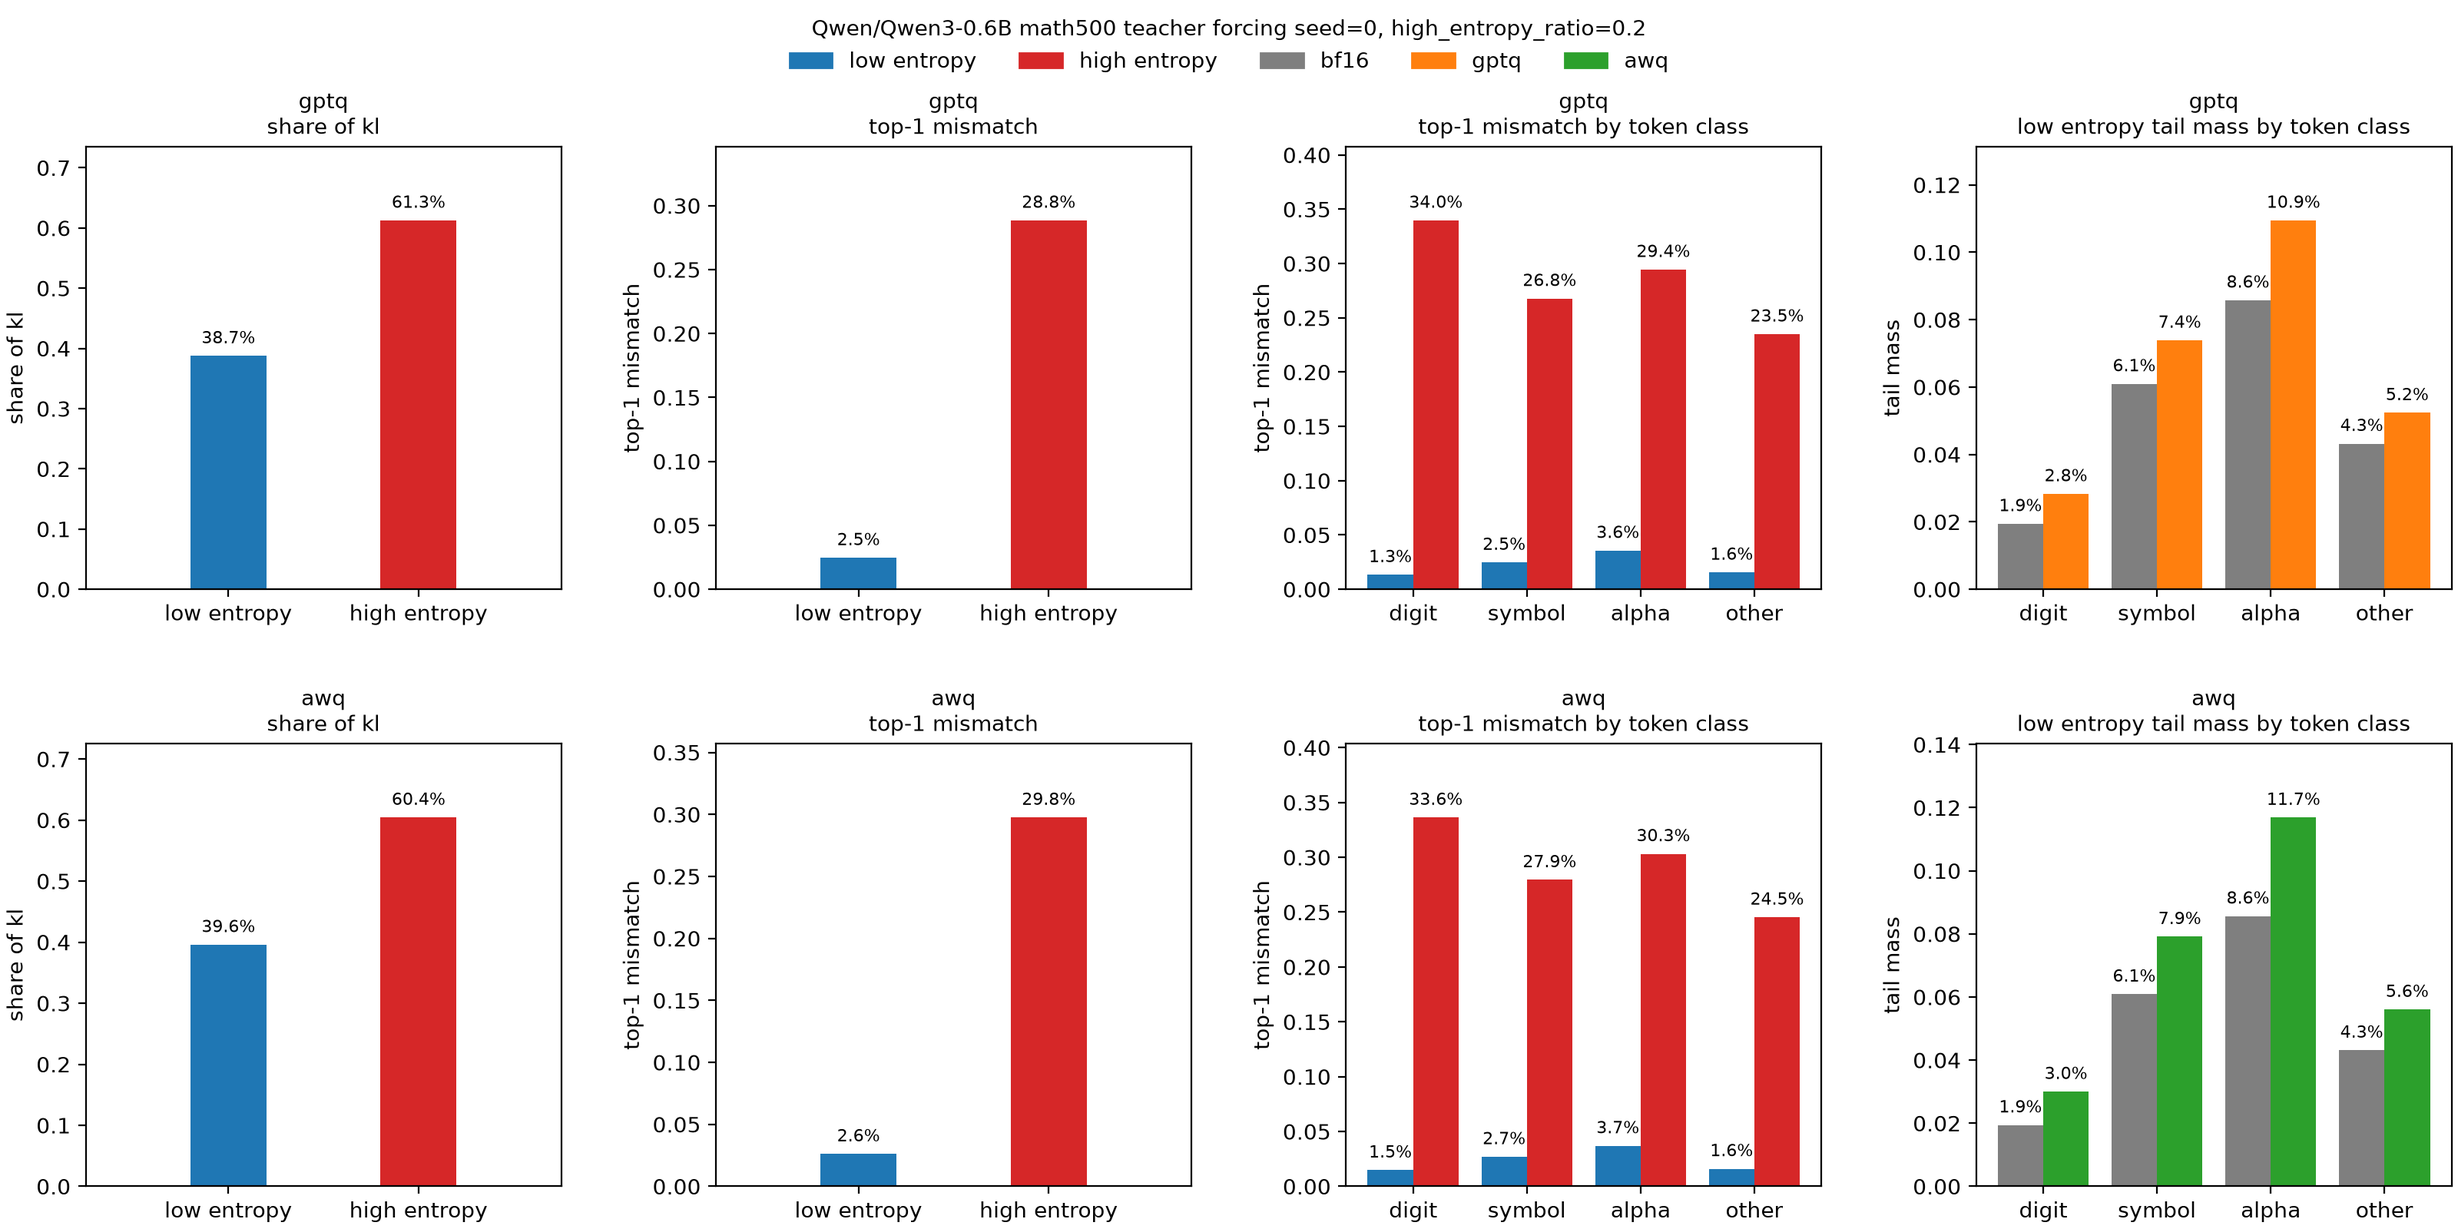
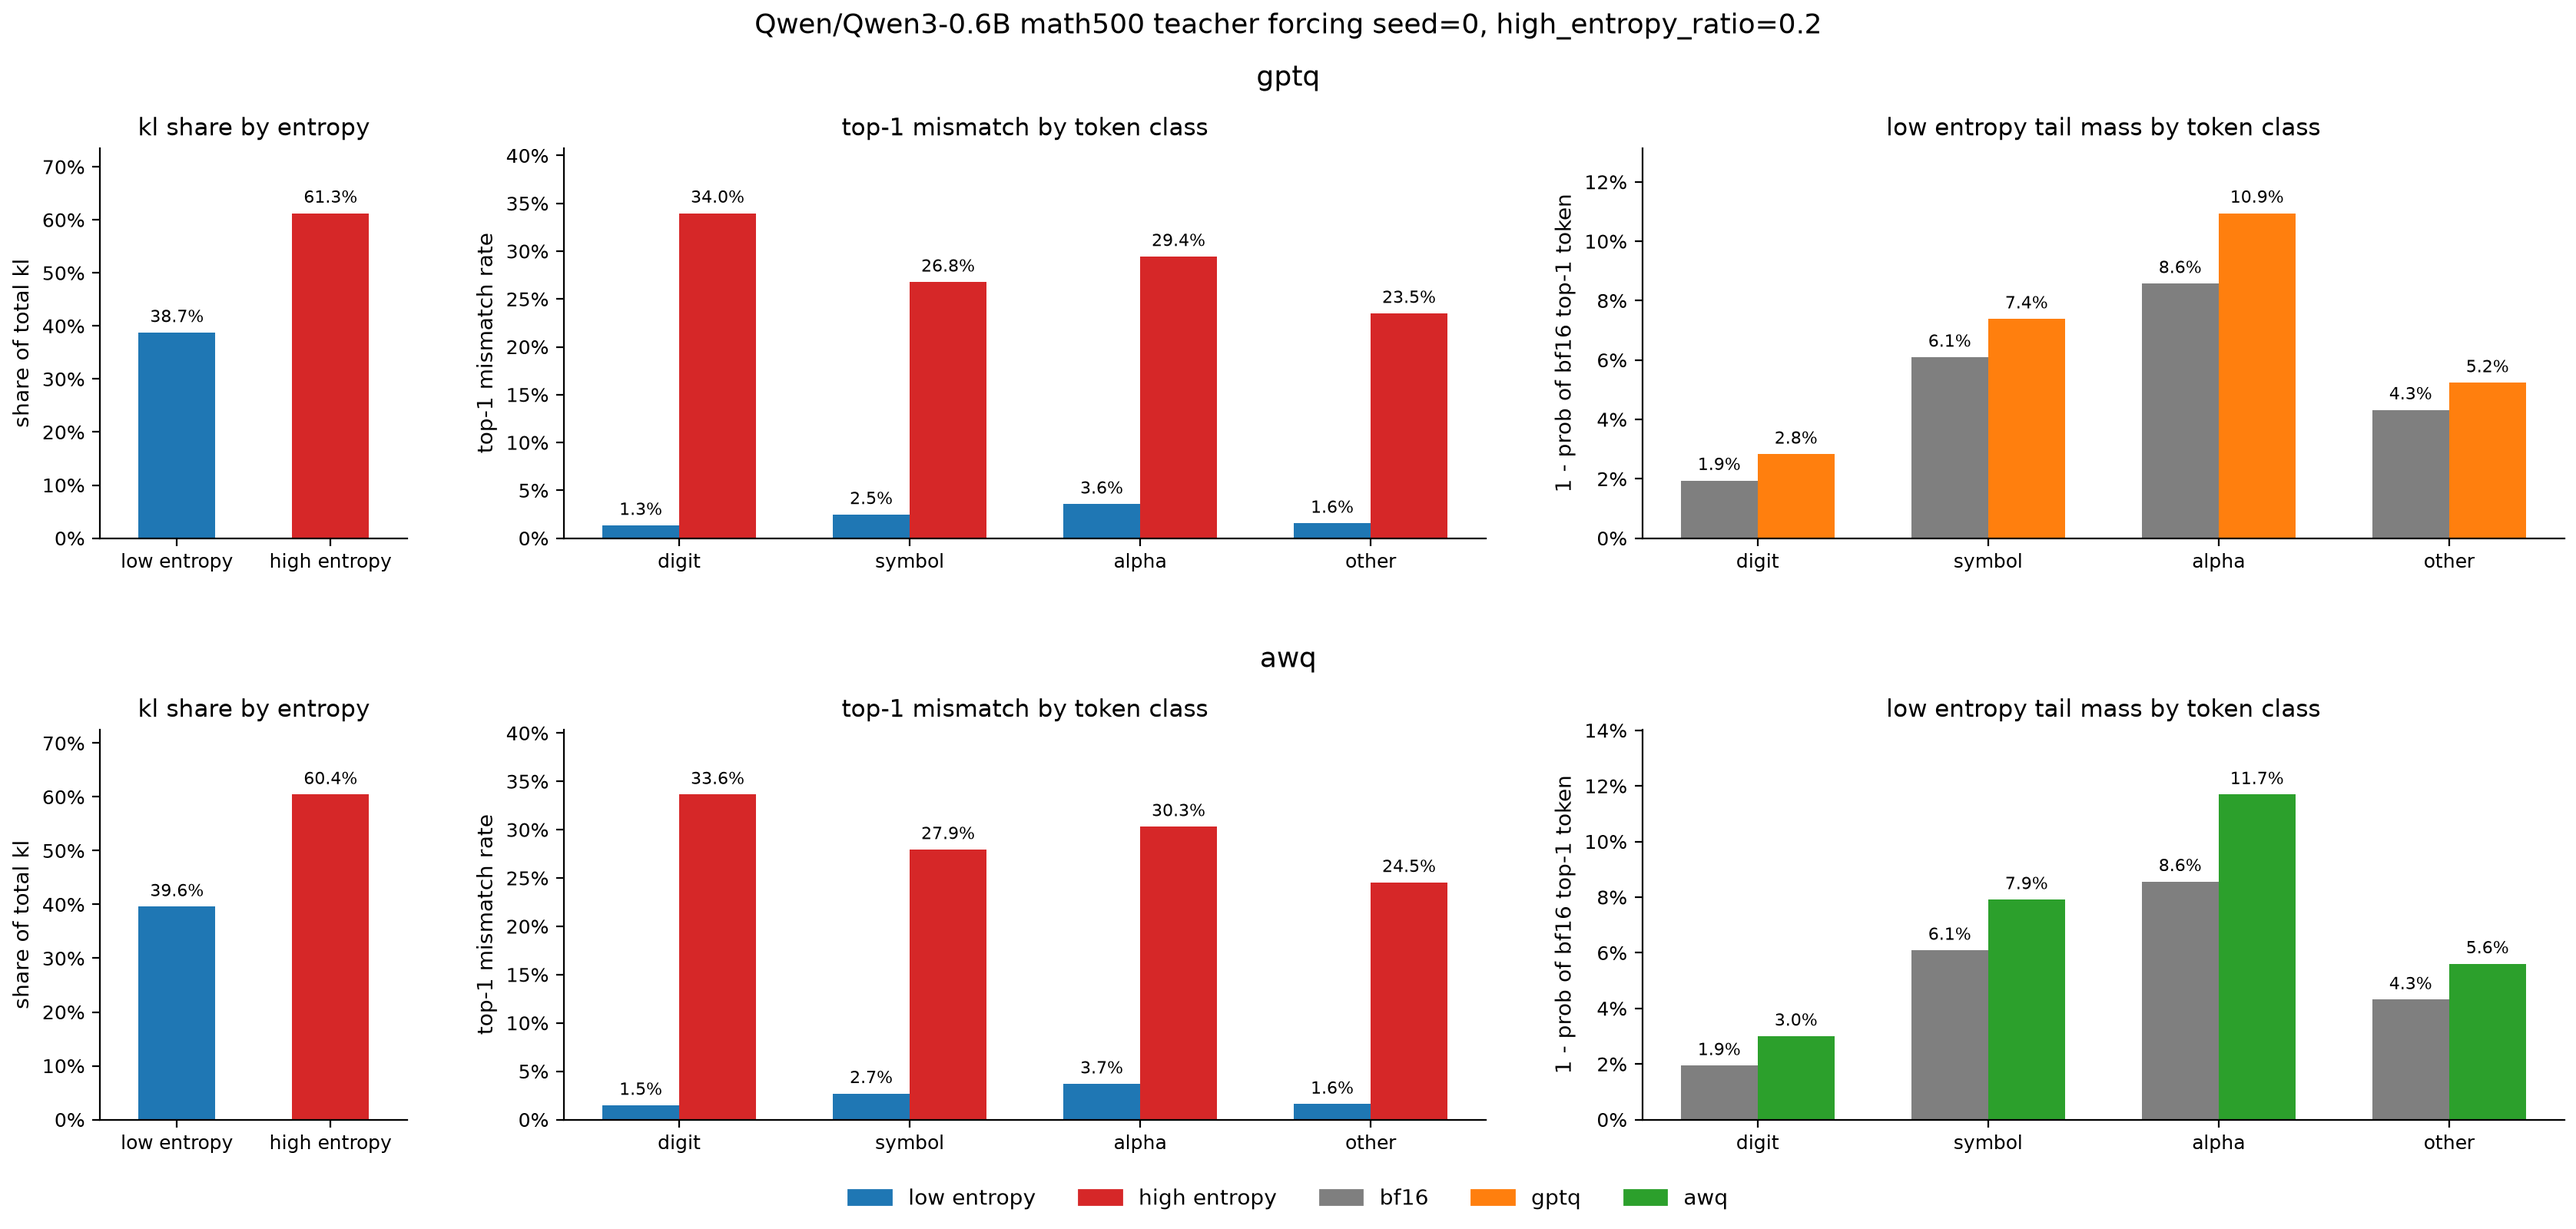
unify teacher forcing plot style

diff --git a/plots/teacher_forcing.py b/plots/teacher_forcing.py
@@ -2,6 +2,7 @@ from dataclasses import dataclass
 
 from matplotlib.patches import Patch
 import matplotlib.pyplot as plt
+from matplotlib.ticker import PercentFormatter
 from simple_parsing import parse
 import torch
 from torch import Tensor
@@ -9,7 +10,7 @@ from transformers import AutoTokenizer
 
 from primitives.hub import load_tensors, result_exists
 from primitives.paths import make_quantized_path
-from primitives.plot import METHOD_COLORS, save_figure
+from primitives.plot import METHOD_COLORS, fit_bar_width, get_figsize, get_panel_width, plot_bars, save_figure
 
 ENTROPY_COLORS = {"low entropy": "tab:blue", "high entropy": "tab:red"}
 TOKEN_CLASSES = ["digit", "symbol", "alpha", "other"]
@@ -53,53 +54,48 @@ def main() -> None:
     tokenizer = AutoTokenizer.from_pretrained(config.model_name)
     token_classes = get_token_classes([tokenizer.decode([token_id]) for token_id in range(len(tokenizer))])
 
-    fig, axes = plt.subplots(len(results), 4, figsize=(16, 4 * len(results)), layout="constrained", squeeze=False)
-    for row_axes, (method, result) in zip(axes, results.items()):
+    panel_widths = [get_panel_width(len(ENTROPY_COLORS), 1), get_panel_width(len(TOKEN_CLASSES), 2), get_panel_width(len(TOKEN_CLASSES), 2)]
+    fig = plt.figure(figsize=get_figsize(panel_widths, len(results)), layout="constrained")
+    for subfig, (method, result) in zip(fig.subfigures(len(results), 1, squeeze=False)[:, 0], results.items()):
+        axes = subfig.subplots(1, len(panel_widths), width_ratios=panel_widths)
         kl = result["kl"]
         mismatch = (result["bf16_top1"] != result["top1"]).float()
         is_high = result["entropy"] > result["entropy"].quantile(1 - config.high_entropy_ratio)
         group_masks = {"low entropy": ~is_high, "high entropy": is_high}
-
-        group_values = {
-            "share of kl": [(kl[group_mask].sum() / kl.sum()).item() for group_mask in group_masks.values()],
-            "top-1 mismatch": [mismatch[group_mask].mean().item() for group_mask in group_masks.values()],
-        }
-        for ax, (name, values) in zip(row_axes[:2], group_values.items()):
-            ax.bar(range(len(group_masks)), values, width=0.4, color=list(ENTROPY_COLORS.values()))
-            for x, value in enumerate(values):
-                ax.annotate(f"{value:.1%}", (x, value), xytext=(0, 4), textcoords="offset points", ha="center", va="bottom", fontsize=8)
-            ax.set_xticks(range(len(group_masks)), list(group_masks))
-            ax.set_xlim(-0.75, len(group_masks) - 0.25)
-            ax.set_ylabel(name)
-            ax.set_title(f"{method}\n{name}", fontsize=10)
-
-        ax = row_axes[2]
         classes = token_classes[result["think_ids"]]
-        for offset, (group, group_mask) in zip([-0.2, 0.2], group_masks.items()):
-            group_mismatches = [mismatch[(classes == index) & group_mask].mean().item() for index in range(len(TOKEN_CLASSES))]
-            ax.bar([x + offset for x in range(len(TOKEN_CLASSES))], group_mismatches, width=0.4, color=ENTROPY_COLORS[group])
-            for x, group_mismatch in enumerate(group_mismatches):
-                ax.annotate(f"{group_mismatch:.1%}", (x + offset, group_mismatch), xytext=(0, 4), textcoords="offset points", ha="center", va="bottom", fontsize=8)
-        ax.set_xticks(range(len(TOKEN_CLASSES)), TOKEN_CLASSES)
-        ax.set_ylabel("top-1 mismatch")
-        ax.set_title(f"{method}\ntop-1 mismatch by token class", fontsize=10)
 
-        ax = row_axes[3]
-        for offset, color, probs in [(-0.2, METHOD_COLORS["bf16"], result["bf16_prob"]), (0.2, METHOD_COLORS[method], result["prob"])]:
+        kl_shares = [(kl[group_mask].sum() / kl.sum()).item() for group_mask in group_masks.values()]
+        plot_bars(axes[0], list(group_masks), [(kl_shares, list(ENTROPY_COLORS.values()), [f"{kl_share:.1%}" for kl_share in kl_shares])])
+        axes[0].set_ylabel("share of total kl")
+        axes[0].set_title("kl share by entropy")
+
+        groups = []
+        for group, group_mask in group_masks.items():
+            group_mismatches = [mismatch[(classes == index) & group_mask].mean().item() for index in range(len(TOKEN_CLASSES))]
+            groups.append((group_mismatches, ENTROPY_COLORS[group], [f"{group_mismatch:.1%}" for group_mismatch in group_mismatches]))
+        plot_bars(axes[1], TOKEN_CLASSES, groups)
+        axes[1].set_ylabel("top-1 mismatch rate")
+        axes[1].set_title("top-1 mismatch by token class")
+
+        groups = []
+        for color, probs in [(METHOD_COLORS["bf16"], result["bf16_prob"]), (METHOD_COLORS[method], result["prob"])]:
             tail_masses = [(1 - probs[(classes == index) & ~is_high]).mean().item() for index in range(len(TOKEN_CLASSES))]
-            ax.bar([x + offset for x in range(len(TOKEN_CLASSES))], tail_masses, width=0.4, color=color)
-            for x, tail_mass in enumerate(tail_masses):
-                ax.annotate(f"{tail_mass:.1%}", (x + offset, tail_mass), xytext=(0, 4), textcoords="offset points", ha="center", va="bottom", fontsize=8)
-        ax.set_xticks(range(len(TOKEN_CLASSES)), TOKEN_CLASSES)
-        ax.set_ylabel("tail mass")
-        ax.set_title(f"{method}\nlow entropy tail mass by token class", fontsize=10)
-        for ax in row_axes:
+            groups.append((tail_masses, color, [f"{tail_mass:.1%}" for tail_mass in tail_masses]))
+        plot_bars(axes[2], TOKEN_CLASSES, groups)
+        axes[2].set_ylabel("1 - prob of bf16 top-1 token")
+        axes[2].set_title("low entropy tail mass by token class")
+
+        for ax in axes:
             ax.margins(y=0.2)
             ax.set_ylim(bottom=0)
+            ax.yaxis.set_major_formatter(PercentFormatter(1, decimals=0))
+        subfig.suptitle(method)
 
     handles = [Patch(color=color, label=group) for group, color in ENTROPY_COLORS.items()]
     handles += [Patch(color=METHOD_COLORS[method], label=method) for method in ["bf16", *results]]
-    fig.legend(handles=handles, loc="outside upper center", ncol=len(handles), frameon=False, title=f"{config.model_name} math500 teacher forcing {file_name}, high_entropy_ratio={config.high_entropy_ratio:g}")
+    fig.suptitle(f"{config.model_name} math500 teacher forcing {file_name}, high_entropy_ratio={config.high_entropy_ratio:g}")
+    fig.legend(handles=handles, loc="outside lower center", ncol=len(handles))
+    fit_bar_width(fig, axes)
     save_figure(fig, config.model_name, "teacher_forcing")
 
 
